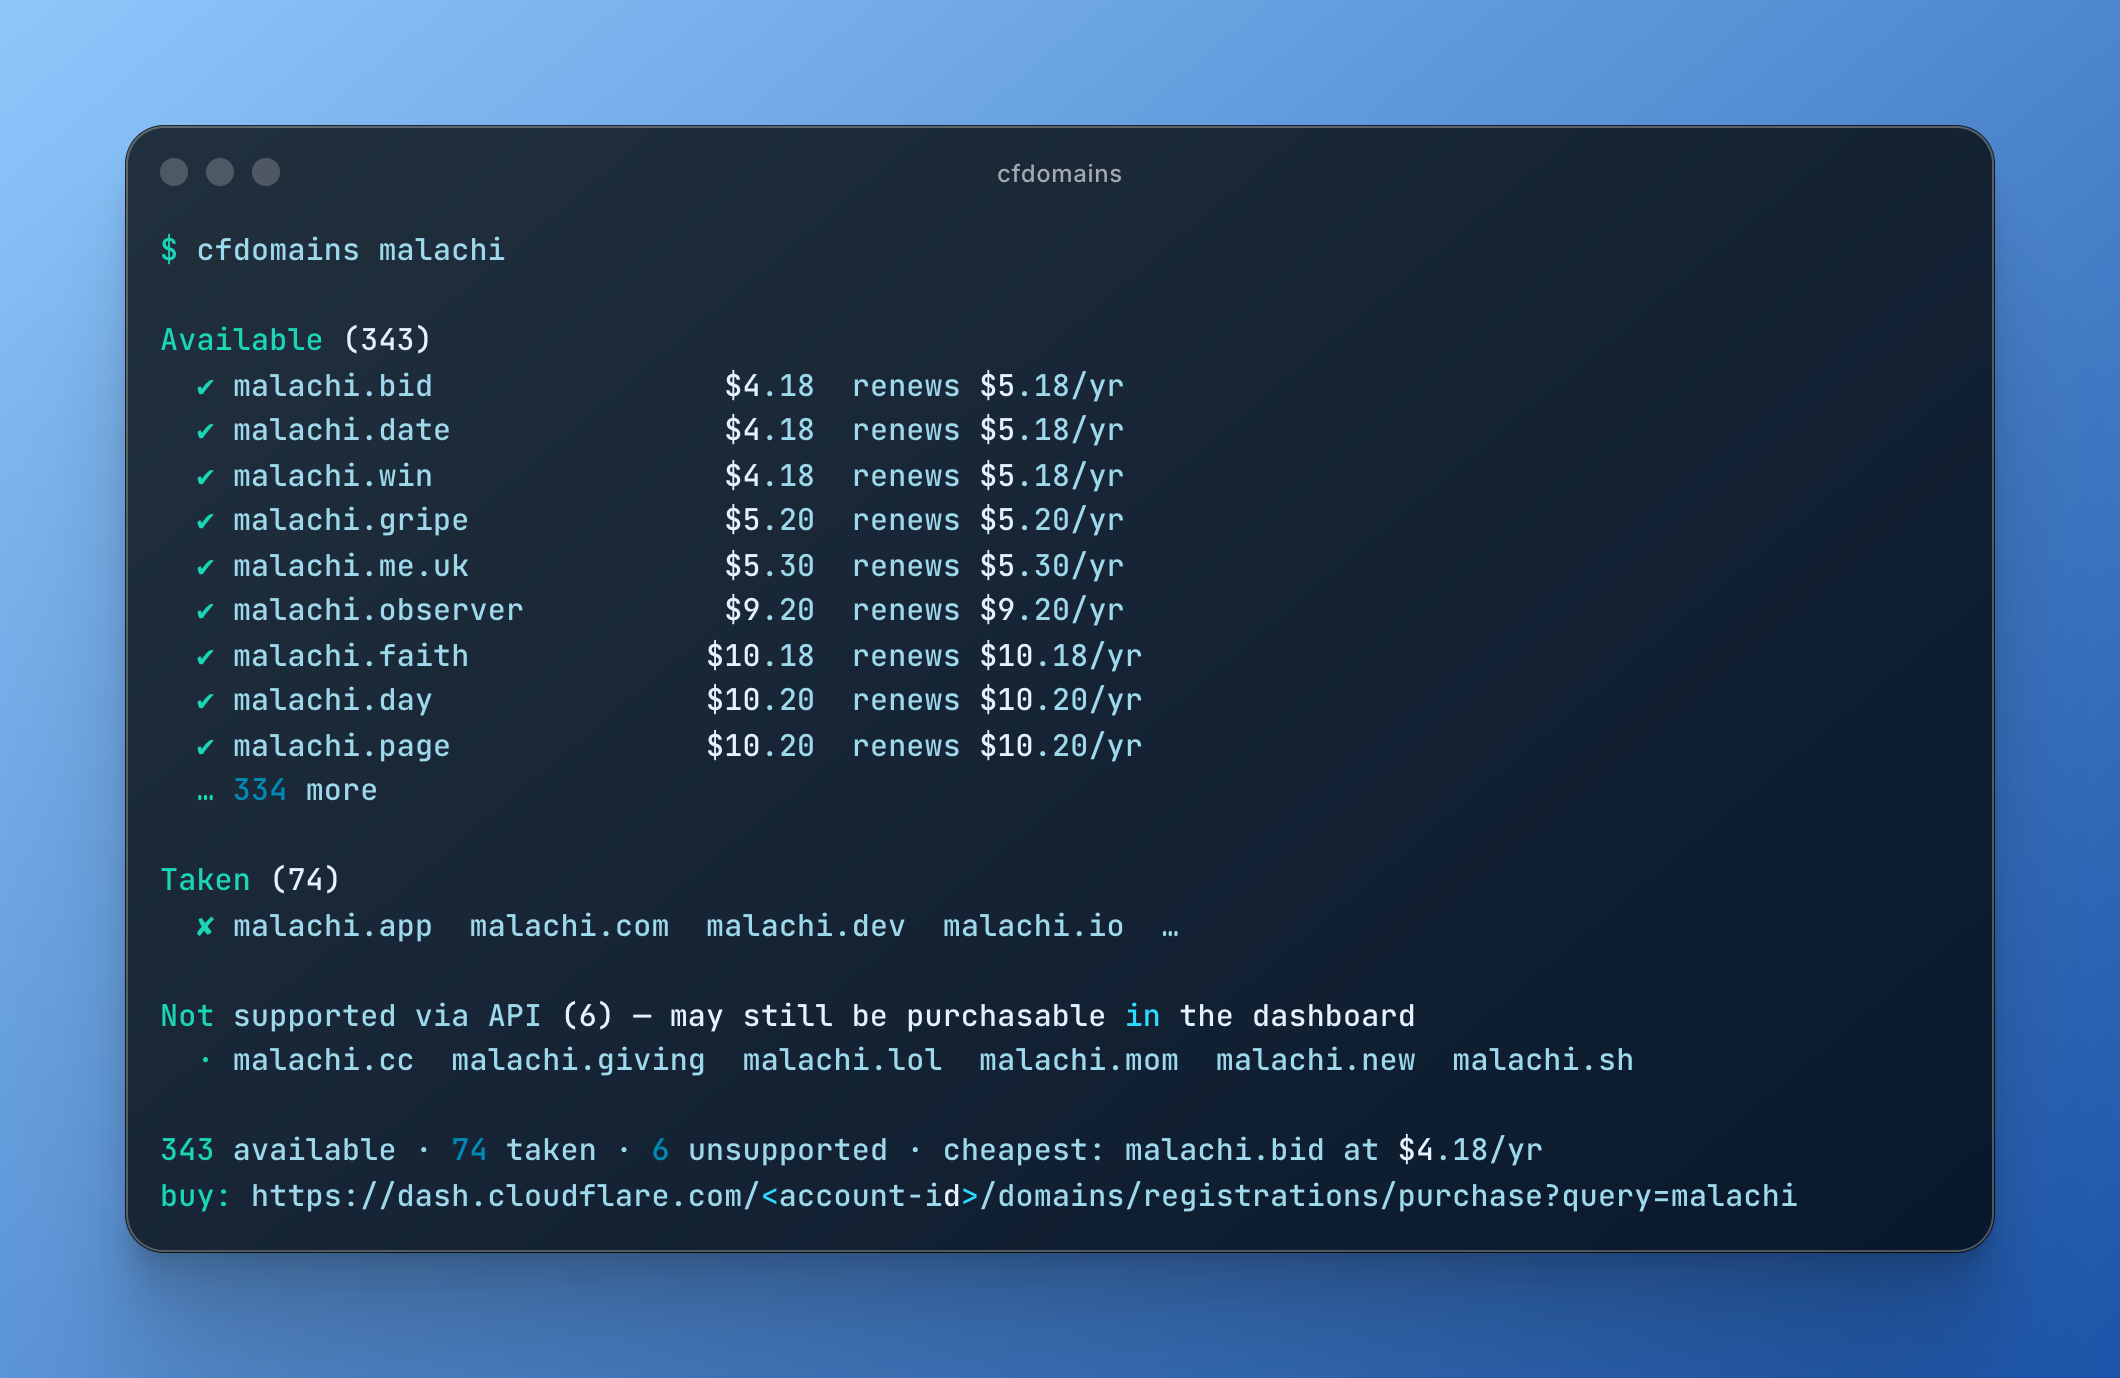
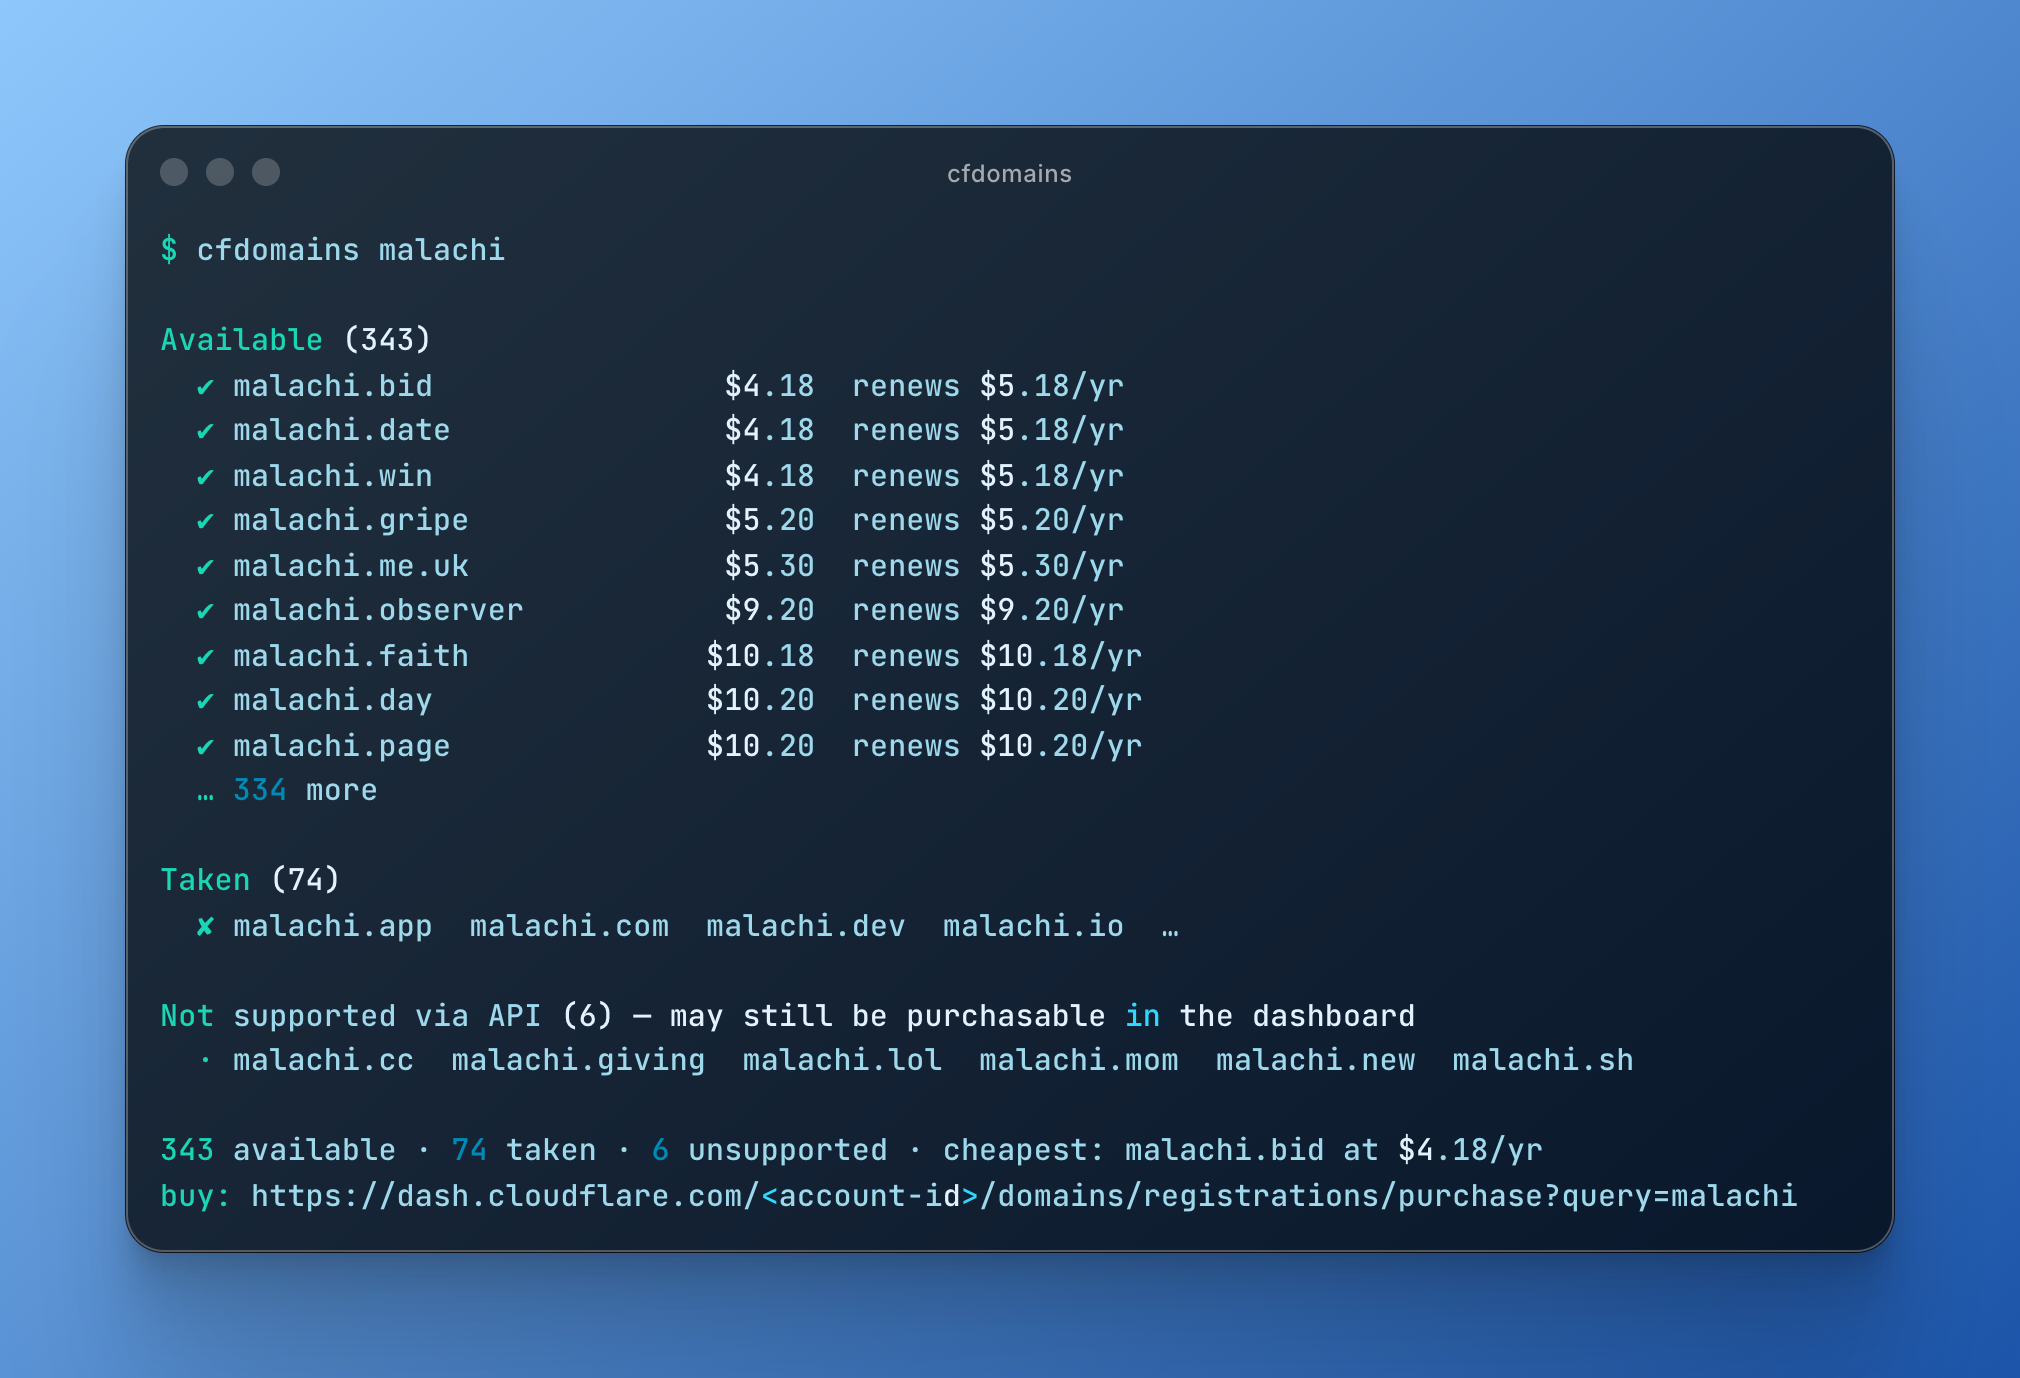
Tighten sweep screenshot frames to 1010px

diff --git a/scripts/screenshots.ts b/scripts/screenshots.ts
@@ -24,7 +24,7 @@ const shots: ReadonlyArray<Shot> = [
     file: "docs/fullsweep.png",
     title: "cfdomains",
     language: "shell",
-    width: 1060,
+    width: 1010,
     code: [
       "$ cfdomains malachi",
       "",
@@ -54,7 +54,7 @@ const shots: ReadonlyArray<Shot> = [
     file: "docs/sweep.png",
     title: "cfdomains",
     language: "shell",
-    width: 1060,
+    width: 1010,
     code: [
       "$ cfdomains malachi --tlds com,dev,io,app,day,page,rocks,ninja,haus",
       "",
